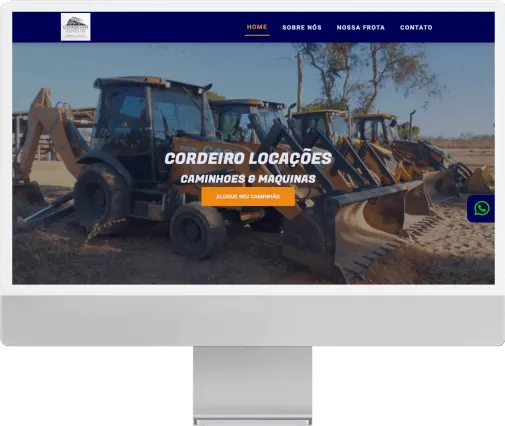
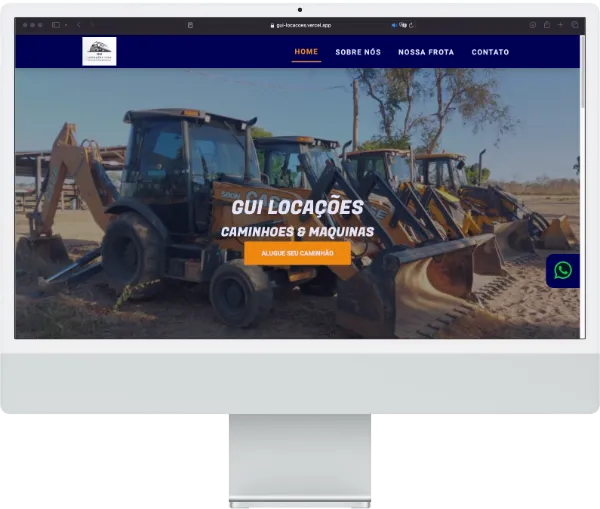
update projects photos

diff --git a/src/lib/template/work/Work.svelte b/src/lib/template/work/Work.svelte
@@ -17,12 +17,13 @@
   const titleDani = 'Daniela Alves Psicologa';
   const linkDani = 'https://danielapsicologia.com.br/';
 
-  const titleCord = 'Cordeiro Locações';
-  const linkCord = 'http://cordeiro-locacoes.vercel.app';
+  const titleCord = 'Gui Locações';
+  const linkCord = 'https://gui-locacoes.vercel.app';
 
   const titleBg = 'BG Softhouse';
   const linkBg = 'https://bgsofthouse.com.br';
 </script>
+
 
 <section class="work animaItemHide itemHideTop" id="work" >
   <h2 class="title title--h2 white">{$t('work.title')}</h2>
